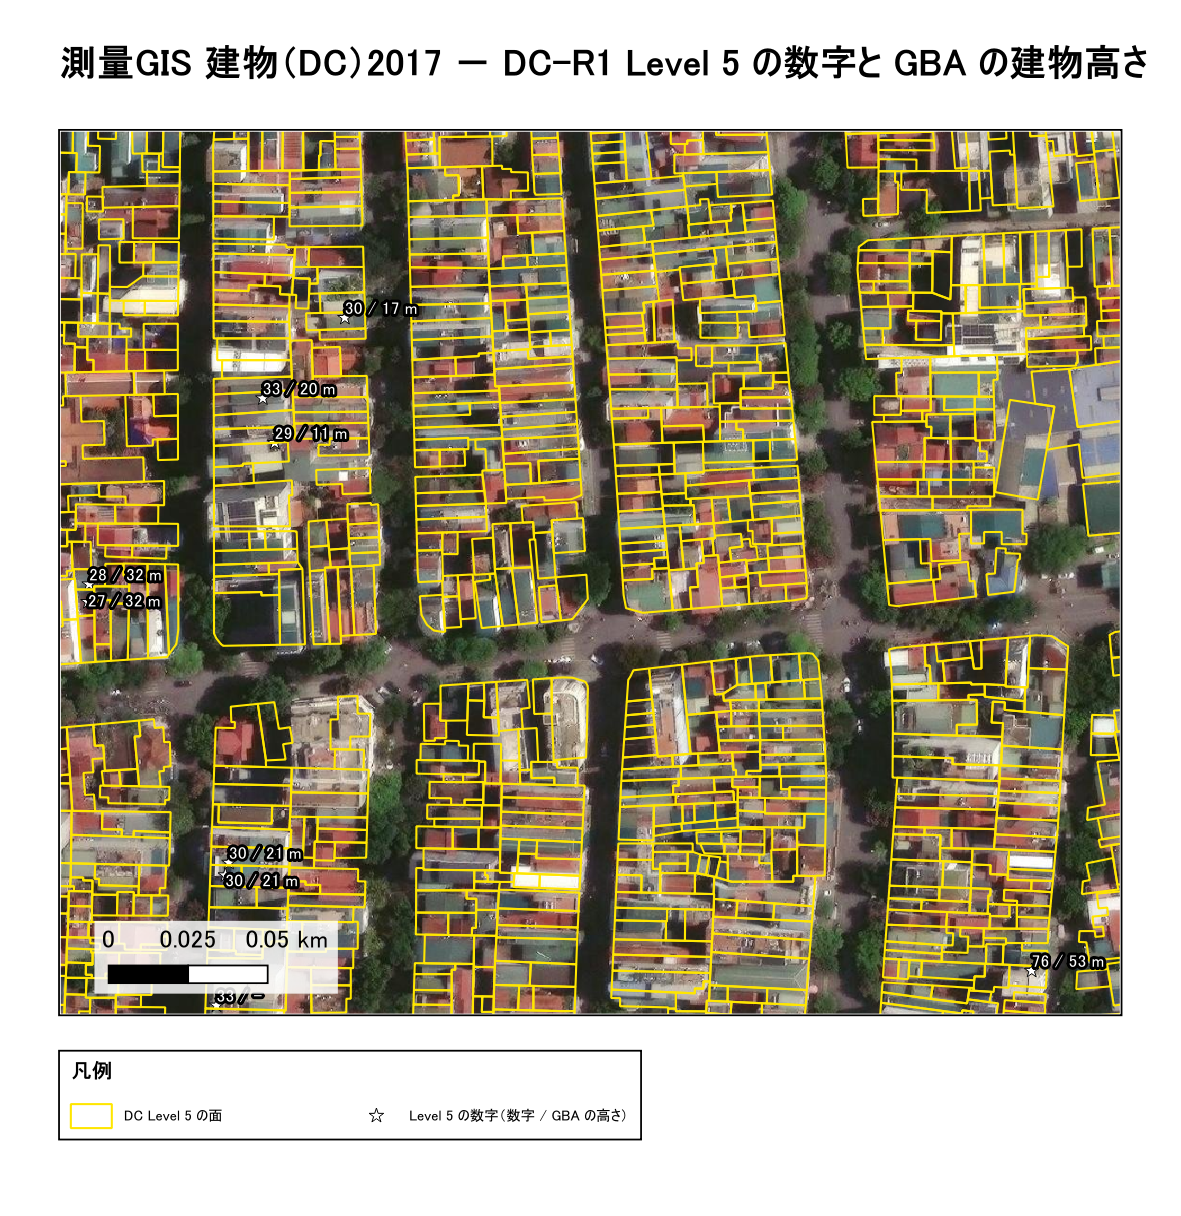
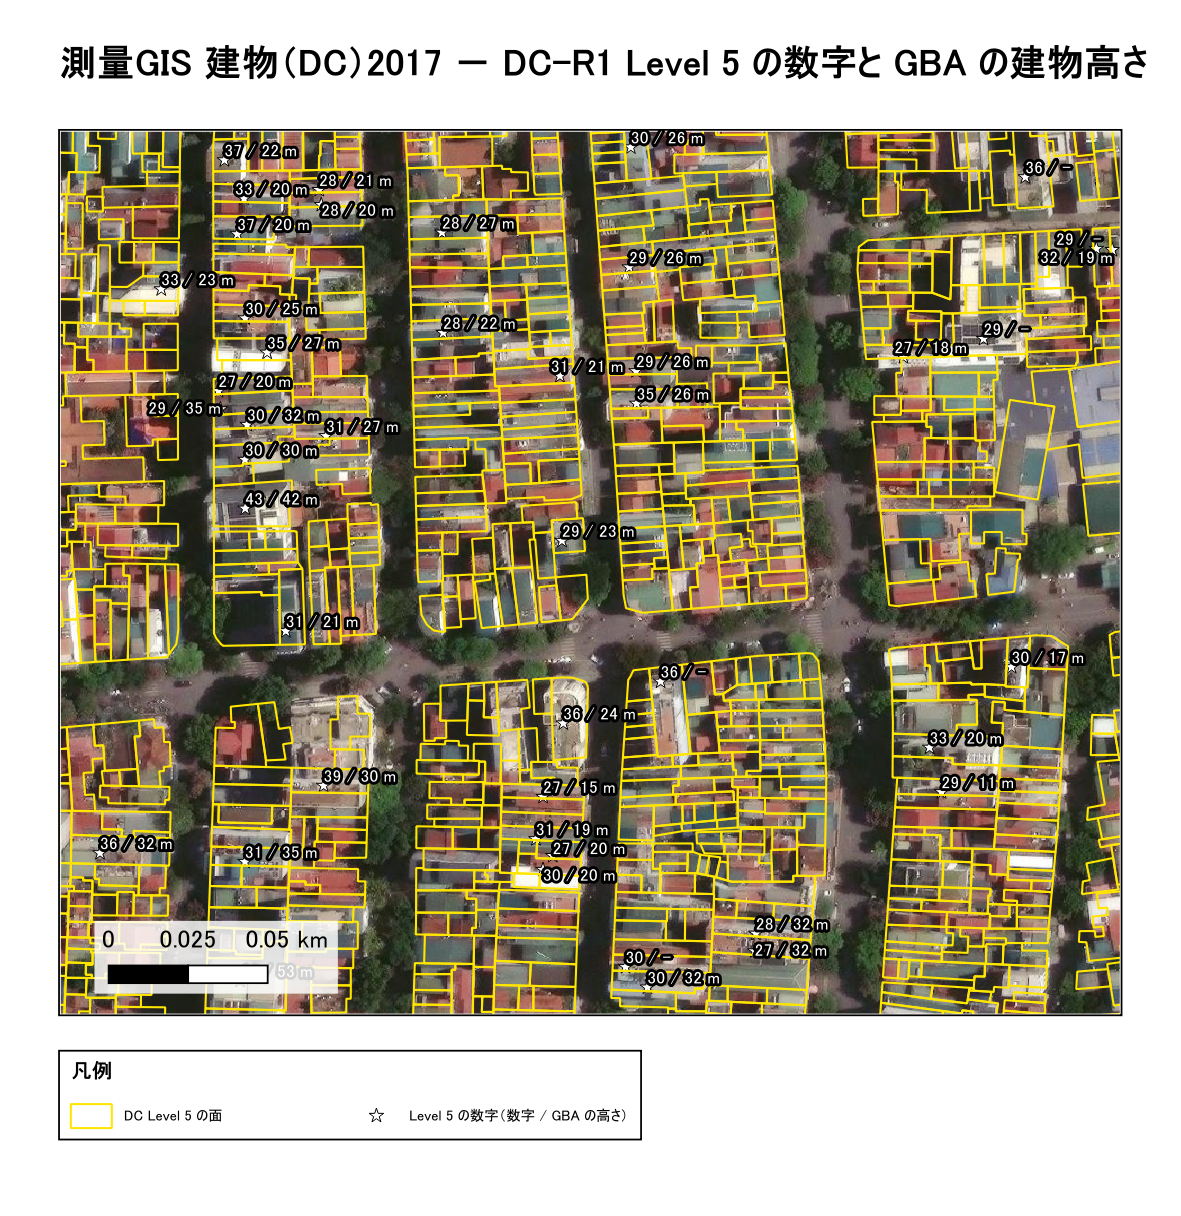
fix: 再調査の確認図の位置ずれを直し、GBA の誤検出とした所見を改める (#430)
- DC-R1・DC-R2 の確認図を描き直す。geopandas で書き出した EPSG:5897 の
  ファイルを QGIS が測地系変換なしで読み、約 220 m ずれて表示されていた
- DC-R2 の「GBA の誤検出（湖・公園の上に格子状）」は表示のずれによる誤り
  だったため削除し、DC に面のない住宅地として書き直す
- 1 万 m² を超える GBA の面の説明を、集計結果（31 面・1.40 km²、多くは
  密集した住宅地をまとめた面）に合わせて直す
- TV の区画の目視を座標系を明示して見直し、所見が変わらないことを記録

diff --git a/docs/03_results/survey_gis_tv_inventory.md b/docs/03_results/survey_gis_tv_inventory.md
@@ -165,7 +165,7 @@ TV を樹林率などの面積率にするには、区画（Level 2 の面）ご
 
 ### 5.3 目視
 
-区画を最も多い記号の Level で色分けし、QGIS で衛星画像（Esri World Imagery）に重ねた。
+区画を最も多い記号の Level で色分けし、QGIS で衛星画像（Esri World Imagery）に重ねた。区画のファイル（geopandas で書き出したもの）は QGIS で座標系が正しく読まれず約 220 m ずれて表示されていたため、EPSG:5897 を明示して見直した（2026-11-18）。見直し後も所見は変わらなかった。
 
 | 地点 | 範囲（経度・緯度） | Claude の所見 |
 |---|---|---|
